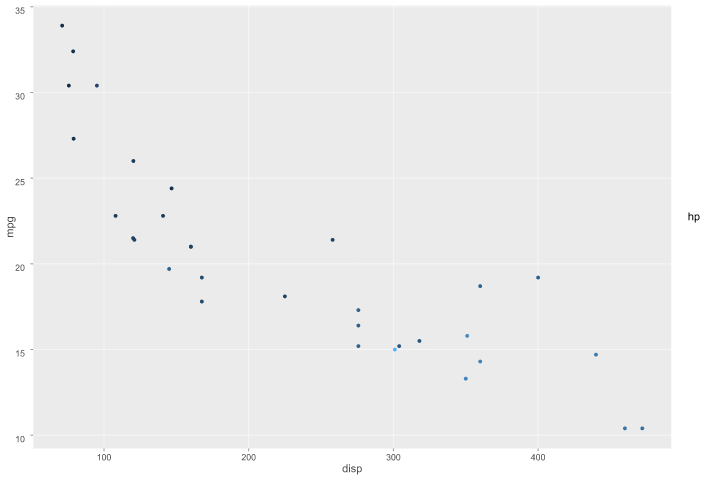
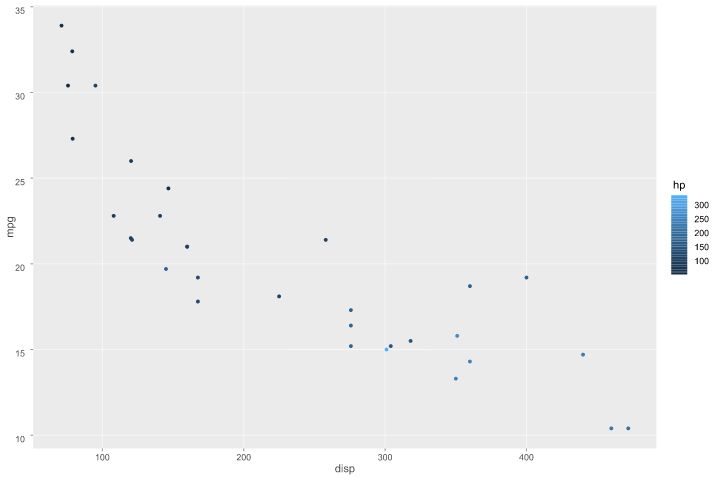
feat(legend): continuous colour 色条图例 (gradient bar)
- Guide 加 bar 形态: 16px 宽 79.2px 高色条 (48 Lab 切片) + 断点标签
  (探针: bar_top=title+6.64, 标签右对齐同列, 块高=title_to_first+63.3)
- 连续 colour/fill scale 自动走 bar guide (替代缺失时的离散 keys)
- 37_colour_cont/38_gradient 3.03->0.63%; 38 图均值 0.42%

diff --git a/crates/jplot-core/src/layout.rs b/crates/jplot-core/src/layout.rs
@@ -62,11 +62,15 @@ enum KeyGlyph {
     Pch(i32, Color, Color), // shape, colour, fill
 }
 
-/// A legend guide: title + levels + per-level key glyphs.
+/// A legend guide: title + levels + per-level key glyphs, or a gradient bar.
 struct Guide {
     title: String,
     levels: Vec<String>,
     glyphs: Vec<KeyGlyph>,
+    /// continuous colour bar: (data_lo, data_hi, ramp low, ramp high)
+    bar: Option<(f64, f64, String, String)>,
+    /// bar guide: normalised tick positions (t of each level label)
+    bar_ticks: Vec<f64>,
 }
 
 /// Collect one guide per mapped discrete aesthetic (fill, colour, shape),
@@ -99,6 +103,25 @@ fn build_guides(bp: &BuiltPlot, ls: &TextStyle) -> Vec<Guide> {
     };
     for (aes, cs) in [("fill", &bp.fill_scale), ("colour", &bp.colour_scale)] {
         if let Some(cs) = cs {
+            if cs.levels.is_empty() && cs.data_hi != cs.data_lo {
+                // continuous colour: gradient bar guide (probe: bar h 79.2,
+                // block-centre span title_to_first + 63.3)
+                let (lo, hi) = (cs.data_lo, cs.data_hi);
+                let brk = crate::scale::extended_breaks(lo, hi, 5)
+                    .into_iter()
+                    .filter(|b| *b >= lo && *b <= hi)
+                    .collect::<Vec<_>>();
+                let levels = crate::scale::format_breaks(&brk);
+                let (a, b) = cs.ramp_hex();
+                let (a, b) = (a.to_string(), b.to_string());
+                guides.push(Guide {
+                    title: title_of(aes, cs.name.as_ref()),
+                    levels,
+                    glyphs: vec![],
+                    bar: Some((lo, hi, a, b)), bar_ticks: brk.iter().map(|b| (b - lo) / (hi - lo)).collect(),
+                });
+                continue;
+            }
             let glyphs = cs
                 .levels
                 .iter()
@@ -113,7 +136,7 @@ fn build_guides(bp: &BuiltPlot, ls: &TextStyle) -> Vec<Guide> {
                     }
                 })
                 .collect();
-            guides.push(Guide { title: title_of(aes, cs.name.as_ref()), levels: cs.levels.clone(), glyphs });
+            guides.push(Guide { title: title_of(aes, cs.name.as_ref()), levels: cs.levels.clone(), glyphs, bar: None, bar_ticks: vec![] });
         }
     }
     if let Some((levels, pchs)) = bp.shape_scale.as_ref() {
@@ -125,7 +148,7 @@ fn build_guides(bp: &BuiltPlot, ls: &TextStyle) -> Vec<Guide> {
             .unwrap_or(Color::black());
         let _ = ls;
         let glyphs = pchs.iter().map(|&s| KeyGlyph::Pch(s as i32, colour, colour)).collect();
-        guides.push(Guide { title: title_of("shape", None), levels: levels.clone(), glyphs });
+        guides.push(Guide { title: title_of("shape", None), levels: levels.clone(), glyphs, bar: None, bar_ticks: vec![] });
     }
     // continuous size / alpha guides: keys are default-point circles whose
     // radius (size) or fill-opacity (alpha) varies with the break value.
@@ -150,7 +173,7 @@ fn build_guides(bp: &BuiltPlot, ls: &TextStyle) -> Vec<Guide> {
                     }
                 })
                 .collect();
-            guides.push(Guide { title: ns.name.clone().unwrap_or_else(|| aes.into()), levels, glyphs });
+            guides.push(Guide { title: ns.name.clone().unwrap_or_else(|| aes.into()), levels, glyphs, bar: None, bar_ticks: vec![] });
         }
     }    // linetype guide: key = short line segment carrying the lty dash pattern
     if let Some((levels, lty)) = bp.linetype_scale.as_ref() {
@@ -164,7 +187,7 @@ fn build_guides(bp: &BuiltPlot, ls: &TextStyle) -> Vec<Guide> {
             .iter()
             .map(|t| KeyGlyph::SegmentD(crate::scene::dash_for(t, geom_lw(0.5)), colour))
             .collect();
-        guides.push(Guide { title: bp.guide_sources.get("linetype").cloned().unwrap_or_else(|| "linetype".into()), levels: levels.clone(), glyphs });
+        guides.push(Guide { title: bp.guide_sources.get("linetype").cloned().unwrap_or_else(|| "linetype".into()), levels: levels.clone(), glyphs, bar: None, bar_ticks: vec![] });
     }
 
     guides
@@ -1024,10 +1047,14 @@ fn draw_legends(sc: &mut Scene, guides: &[Guide], theme: &Theme, width: f64, vp:
 
     // vertical layout: first-title baseline centred on the panel middle so
     // the whole stack's baseline span is balanced (probe: +2.11 offset).
-    let total: f64 = guides
-        .iter()
-        .map(|g| title_to_first + (g.levels.len().max(1) as f64 - 1.0) * pitch)
-        .sum::<f64>()
+    let guide_h = |g: &Guide| -> f64 {
+        if g.bar.is_some() {
+            title_to_first + 63.3
+        } else {
+            title_to_first + (g.levels.len().max(1) as f64 - 1.0) * pitch
+        }
+    };
+    let total: f64 = guides.iter().map(guide_h).sum::<f64>()
         + inter * (guides.len().saturating_sub(1)) as f64;
     let mut title_bl = (vp.y0 + vp.y1) / 2.0 - total / 2.0 + 2.11;
 
@@ -1039,6 +1066,42 @@ fn draw_legends(sc: &mut Scene, guides: &[Guide], theme: &Theme, width: f64, vp:
             y: title_bl,
             style: ts.clone(),
         });
+        if let Some((lo, hi, a, b)) = &g.bar {
+            let bar_top = title_bl + 6.64;
+            let bar_h = 79.2;
+            let bar_w = 16.0;
+            let slices = 48usize;
+            for k in 0..slices {
+                let t = (k as f64 + 0.5) / slices as f64; // 0 bottom .. 1 top
+                let y = bar_top + bar_h * (1.0 - (k as f64 + 1.0) / slices as f64);
+                let hh = bar_h / slices as f64 + 0.05;
+                let col = crate::scale::lab_ramp(&a, &b, t);
+                sc.layer(layer::LEGEND).push(Primitive::Rect {
+                    x: key_cx - bar_w / 2.0,
+                    y,
+                    w: bar_w,
+                    h: hh,
+                    fill: Some(Paint::new(col)),
+                    stroke: None,
+                });
+            }
+            let _ = (lo, hi);
+            for (i, lvl) in g.levels.iter().enumerate() {
+                let t = match g.bar_ticks.get(i).copied() {
+                    Some(tv) => tv,
+                    None => continue,
+                };
+                let ty = bar_top + bar_h * (1.0 - t) + 3.1;
+                sc.layer(layer::LEGEND).push(Primitive::Text {
+                    content: lvl.clone(),
+                    x: label_left,
+                    y: ty,
+                    style: ls.clone(),
+                });
+            }
+            title_bl += guide_h(g) + inter;
+            continue;
+        }
         for (i, lvl) in g.levels.iter().enumerate() {
             let key_bl = title_bl + title_to_first + i as f64 * pitch;
             let cy = key_bl - 3.15;
@@ -1108,7 +1171,7 @@ fn draw_legends(sc: &mut Scene, guides: &[Guide], theme: &Theme, width: f64, vp:
                 style: ls.clone(),
             });
         }
-        title_bl += title_to_first + (g.levels.len().max(1) as f64 - 1.0) * pitch + inter;
+        title_bl += guide_h(g) + inter;
     }
 }
 
